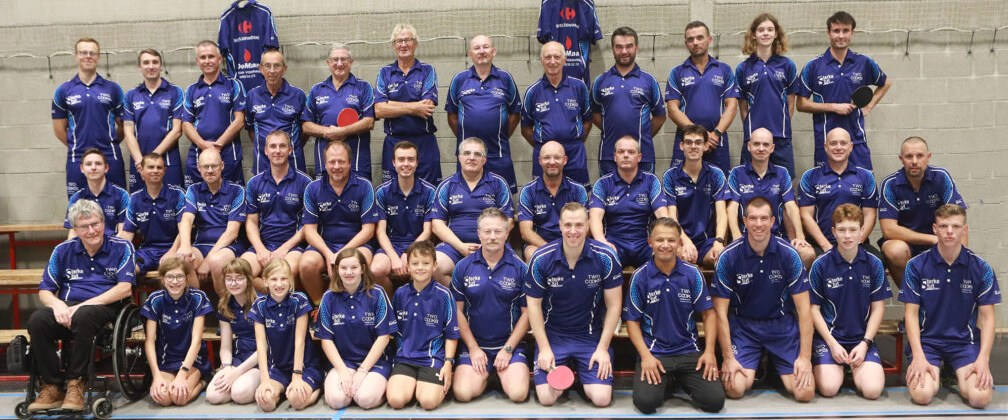
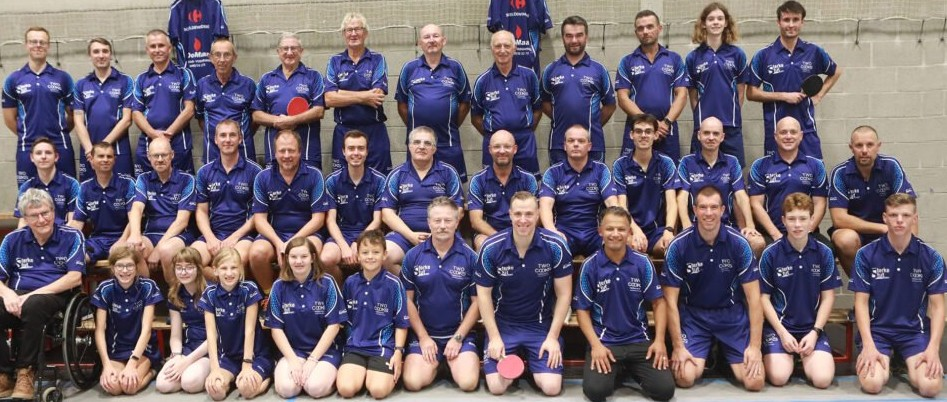
VTTL: schrijfwijze per verzoek, club zoeken op naam, Sterke Stut altijd standaard, nieuwe clubfoto
Claude-Session: https://claude.ai/code/session_01VYtuCwQwhg7h1mqtqXWnfn

diff --git a/index.html b/index.html
@@ -863,7 +863,7 @@ const sortMembers = l => l.sort((a, b) => TT.rankValue(a.rank) - TT.rankValue(b.
 const VTTL_URL = 'https://api.vttl.be/', VKEY = 'tt-vttl-club';
 const CKEY = 'tt-vttl-clubs';
 let vttl = null, vttlClubs = null, vttlBusy = '', vttlErr = '';     // vttl = {code, name, members} of null = eigen club
-try { vttl = JSON.parse(localStorage.getItem(VKEY)) || null; if (vttl && !Array.isArray(vttl.members)) vttl = null; } catch (e) { vttl = null; }
+try { localStorage.removeItem(VKEY); } catch (e) {}     // de kiezer start altijd op de eigen club
 try { vttlClubs = JSON.parse(localStorage.getItem(CKEY)) || null; if (!Array.isArray(vttlClubs) || !vttlClubs.length) vttlClubs = null; } catch (e) { vttlClubs = null; }
 const pickList = () => vttl ? vttl.members : CLUB_MEMBERS;
 const xmlEsc = t => String(t).replace(/[<>&'"]/g, c => `&#${c.charCodeAt(0)};`);
@@ -904,15 +904,18 @@ async function tabtCall(c, method, fields) {
 }
 // De eerste keer wordt gezocht welke schrijfwijze VTTL aanvaardt (volgens de WSDL, anders de
 // gekende varianten); daarna wordt die onthouden.
-let tabtCfg = null;
+// VTTL schrijft niet elk verzoek op dezelfde manier (bv. GetClubs zonder en GetMembers met
+// "Request"), dus de werkende variant wordt per verzoek gezocht en onthouden.
+const tabtCfg = {};
 async function tabt(method, fields) {
-  if (tabtCfg) return tabtCall(tabtCfg, method, fields);
+  if (tabtCfg[method]) return tabtCall(tabtCfg[method], method, fields);
   const cands = [];
   for (const base of VTTL_BASES) { try { const c = await tabtWsdl(base); if (c) cands.push(c); } catch (e) {} }
-  for (const base of VTTL_BASES) for (const sfx of ['Request', '']) cands.push({ url: base, ns: TABT_NS, q: true, sfx });
+  const known = Object.values(tabtCfg).map(c => c.url).filter(u => VTTL_BASES.includes(u));
+  for (const base of [...new Set([...known, ...VTTL_BASES])]) for (const sfx of ['Request', '']) cands.push({ url: base, ns: TABT_NS, q: true, sfx });
   let last;
   for (const c of cands) {
-    try { const xml = await tabtCall(c, method, fields); tabtCfg = c; return xml; }
+    try { const xml = await tabtCall(c, method, fields); tabtCfg[method] = c; return xml; }
     catch (e) { if (!last || e.fault) last = e; if (e.fault && !e.unknown) throw e; }
   }
   const w = cands.filter(c => c.ops).map(c => `${c.url} ${c.ns} ${c.ops[method] || '?'}`).join(' | ');
@@ -931,28 +934,37 @@ async function vttlRun(what, fn) {
   catch (e) { vttlErr = `${what} lukt niet (${e.message || 'geen verbinding'}). ${e.fault || /herkend/.test(e.message || '') ? 'VTTL antwoordt, maar anders dan verwacht.' : 'Controleer het internet.'} De lijst van de eigen club en "Meerdere spelers tegelijk plakken" blijven werken.`; }
   vttlBusy = ''; render();
 }
-const vttlLoadClubs = () => vttlRun('Clubs ophalen bij VTTL', async () => {
+const vttlFetchClubs = async () => {
   const xml = await tabt('GetClubs', {}), rows = xmlRows(xml, 'ClubEntries').filter(c => c.UniqueIndex && c.Name);
   if (!rows.length) throw new Error('geen clubs herkend in het antwoord: ' + xmlNames(xml));
   vttlClubs = rows.map(c => ({ code: c.UniqueIndex, name: c.LongName || c.Name })).sort((a, b) => a.name.localeCompare(b.name, 'nl'));
   try { localStorage.setItem(CKEY, JSON.stringify(vttlClubs)); } catch (e) {}
-});
+};
+const vttlLoadClubs = () => vttlRun('Clubs ophalen bij VTTL', vttlFetchClubs);
+// Bij het openen stil de clublijst ophalen (als er internet is), zodat de keuzelijst meteen gevuld is.
+function vttlWarm() { if (!vttlClubs && navigator.onLine !== false && !isDisplay()) vttlFetchClubs().then(() => { if (!vttlBusy && !document.querySelector('.modal-bg') && !/^(INPUT|TEXTAREA|SELECT)$/.test(document.activeElement?.tagName || '')) render(); }, () => {}); }
 const vttlLoadMembers = code => vttlRun('Leden ophalen bij VTTL', async () => {
   code = String(code || '').trim(); if (!code) throw new Error('kies eerst een club');
   const xml = await tabt('GetMembers', { Club: code }), rows = xmlRows(xml, 'MemberEntries').filter(m => m.LastName || m.FirstName);
   if (!rows.length) throw new Error('geen leden herkend voor club ' + code + ': ' + xmlNames(xml));
   const members = sortMembers(rows.map(m => ({ name: cleanName(`${niceName(m.FirstName || '')} ${niceName(m.LastName || '')}`), rank: vttlRank(m.Ranking) })));
   vttl = { code, name: vttlClubs?.find(c => c.code === code)?.name || code, members, at: Date.now() };
-  try { localStorage.setItem(VKEY, JSON.stringify(vttl)); } catch (e) {}
 });
+// Keuzelijst van clubs: de eigen club staat altijd bovenaan en is de standaard; de zoekterm
+// (deel van de naam of de code) beperkt de andere clubs.
+let clubFind = '';
+function clubOptions() {
+  const cur = vttl ? vttl.code : '', q = nameKey(clubFind);
+  const hit = (vttlClubs || []).filter(c => c.code === cur || !q || nameKey(c.name + ' ' + c.code).includes(q));
+  return `<option value="" ${cur ? '' : 'selected'}>TTC Sterke Stut</option>
+    ${vttl && !(vttlClubs || []).some(c => c.code === cur) ? `<option value="${esc(cur)}" selected>${esc(vttl.name)}</option>` : ''}
+    ${vttlClubs ? hit.map(c => `<option value="${esc(c.code)}" ${c.code === cur ? 'selected' : ''}>${esc(c.name)} (${esc(c.code)})</option>`).join('') + (q && hit.length < (cur ? 2 : 1) ? '<option disabled>Geen club gevonden</option>' : '')
+      : '<option value="__load">Andere club… (lijst ophalen bij VTTL)</option>'}`;
+}
 function clubPicker() {
   const list = pickList(), ranks = [...new Set(list.map(m => m.rank || 'NG'))];
-  const cur = vttl ? vttl.code : '';
-  const pick = `<div class="row" style="margin-bottom:10px"><label><b>Club</b> <select data-vttlpick ${vttlBusy ? 'disabled' : ''} style="max-width:340px">
-        <option value="">TTC Sterke Stut</option>
-        ${vttl && !(vttlClubs || []).some(c => c.code === cur) ? `<option value="${esc(cur)}" selected>${esc(vttl.name)}</option>` : ''}
-        ${vttlClubs ? vttlClubs.map(c => `<option value="${esc(c.code)}" ${c.code === cur ? 'selected' : ''}>${esc(c.name)} (${esc(c.code)})</option>`).join('') : '<option value="__load">Andere club… (lijst ophalen bij VTTL)</option>'}
-      </select></label>
+  const pick = `<div class="row" style="margin-bottom:10px"><label><b>Club</b> <select data-vttlpick ${vttlBusy ? 'disabled' : ''} style="max-width:340px">${clubOptions()}</select></label>
+      ${vttlClubs ? `<input type="search" data-clubfind value="${esc(clubFind)}" placeholder="Zoek club (deel van de naam)" style="width:230px" autocomplete="off">` : ''}
       ${vttlBusy ? `<span class="hint">⏳ ${esc(vttlBusy)}…</span>` : vttl ? `<span class="hint">Leden en klassementen van VTTL, opgehaald op ${new Date(vttl.at).toLocaleDateString('nl-BE')}.</span>` : ''}</div>
       ${vttlErr ? `<p class="err">${esc(vttlErr)}</p>` : ''}`;
   return `<div class="card"><h2>Clubleden kiezen <span class="pill">${esc(vttl ? vttl.name : 'TTC Sterke Stut')} · ${list.length} leden</span></h2>
@@ -1388,13 +1400,16 @@ document.addEventListener('click', e => {
     }
   }
 });
-document.addEventListener('input', e => { if (e.target.matches('[data-clubq],[data-clubrank]')) clubFilter(); });
+document.addEventListener('input', e => {
+  if (e.target.matches('[data-clubq],[data-clubrank]')) clubFilter();
+  if (e.target.matches('[data-clubfind]')) { clubFind = e.target.value; const sel = $app.querySelector('[data-vttlpick]'); if (sel) sel.innerHTML = clubOptions(); }
+});
 document.addEventListener('change', e => {
   const el = e.target;
   if (el.matches('[data-vttlpick]')) {
     if (el.value === '__load') vttlLoadClubs();
     else if (el.value) vttlLoadMembers(el.value);
-    else { vttl = null; vttlErr = ''; try { localStorage.removeItem(VKEY); } catch (e) {} render(); }
+    else { vttl = null; vttlErr = ''; render(); }
     return;
   }
   if (el.dataset.set) {
@@ -1421,13 +1436,20 @@ document.addEventListener('change', e => {
     });
   }
 });
-document.addEventListener('keydown', e => { if (e.key === 'Escape') closeModal(); });
+document.addEventListener('keydown', e => {
+  if (e.key === 'Escape') closeModal();
+  if (e.key === 'Enter' && e.target.matches?.('[data-clubfind]')) {      // Enter in het zoekveld: is er precies één club, kies die
+    const q = nameKey(clubFind), hit = q ? (vttlClubs || []).filter(c => nameKey(c.name + ' ' + c.code).includes(q)) : [];
+    if (hit.length === 1) vttlLoadMembers(hit[0].code);
+  }
+});
 window.addEventListener('storage', e => { if (e.key === KEY) { load(); if (!$modal.innerHTML) render(); } });
 window.addEventListener('hashchange', render);
 window.addEventListener('beforeunload', persist);
 setInterval(() => { if (isDisplay()) { load(); render(); } }, 5000);
 
 load();
+vttlWarm();
 if (state.stage !== 'setup') tab = state.stage === 'draw' ? 'poules' : 'wedstrijden';
 render();
 </script>
